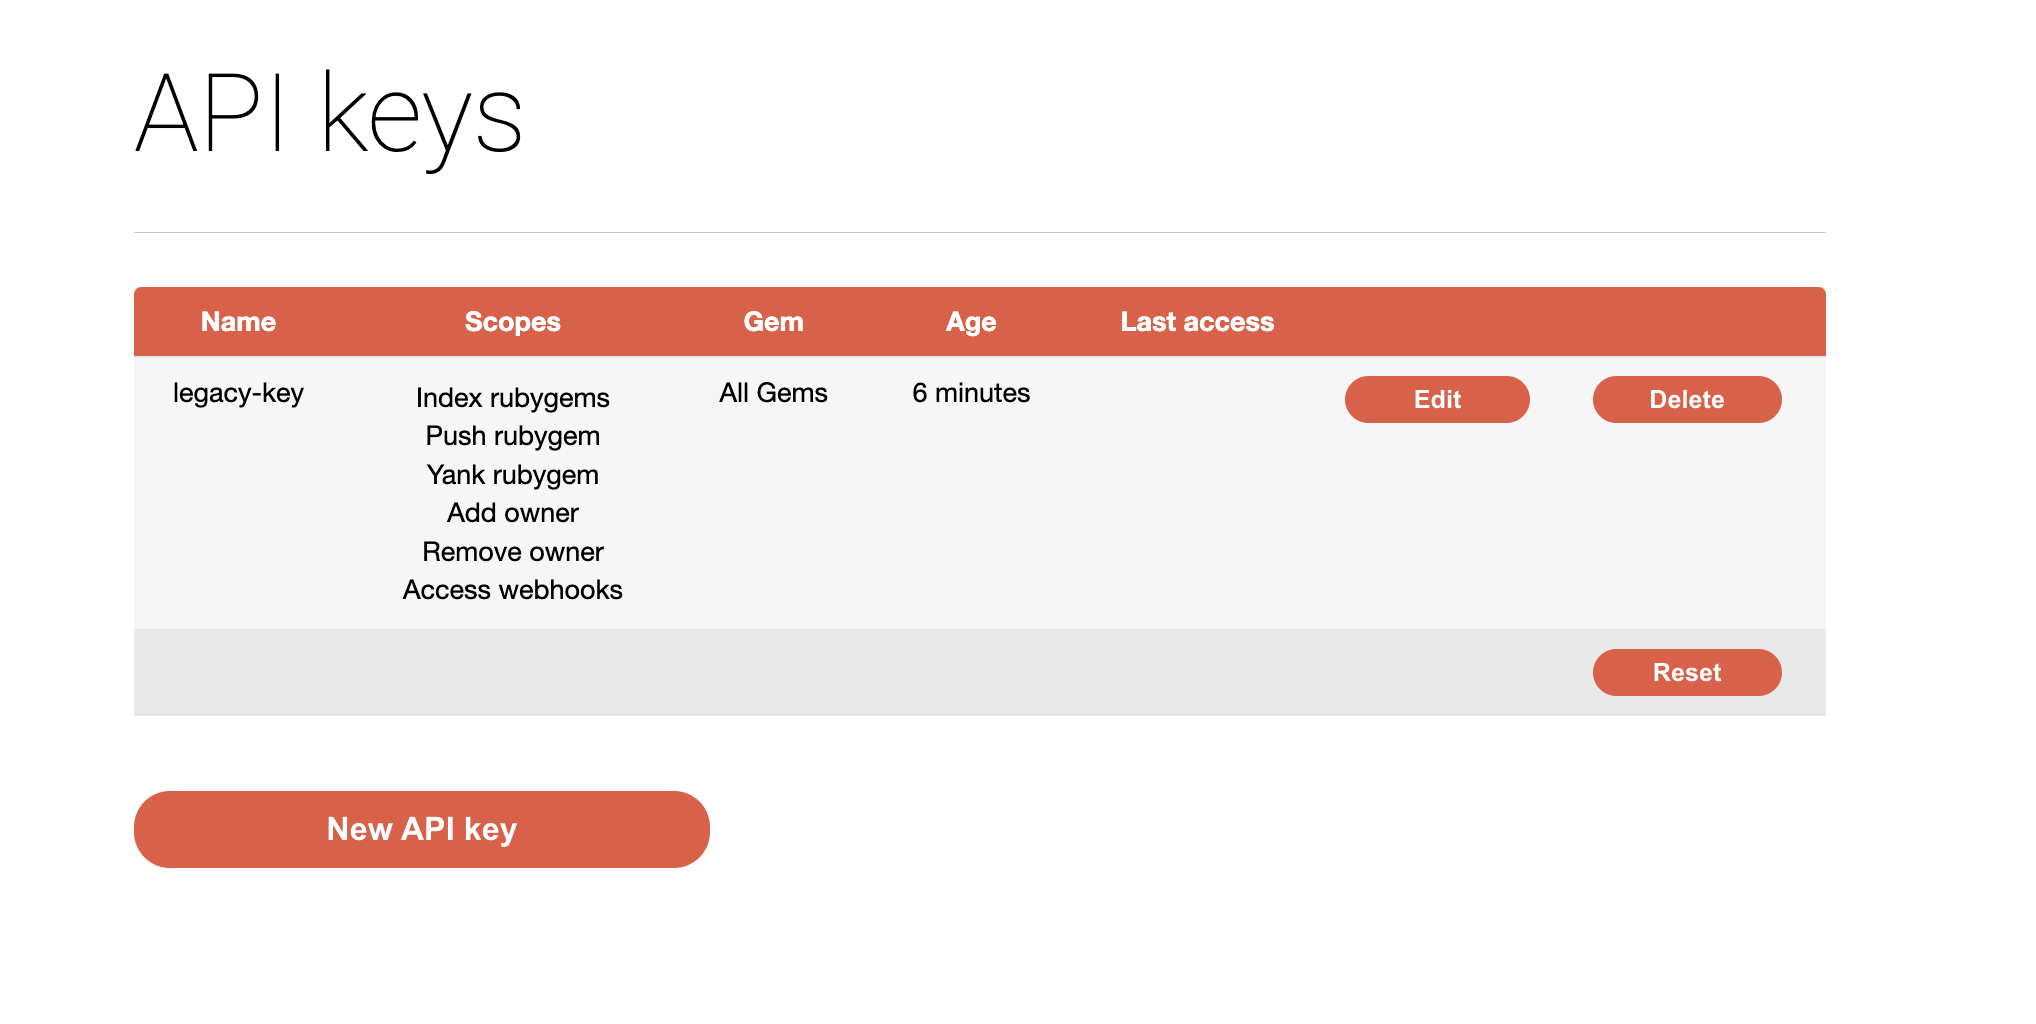
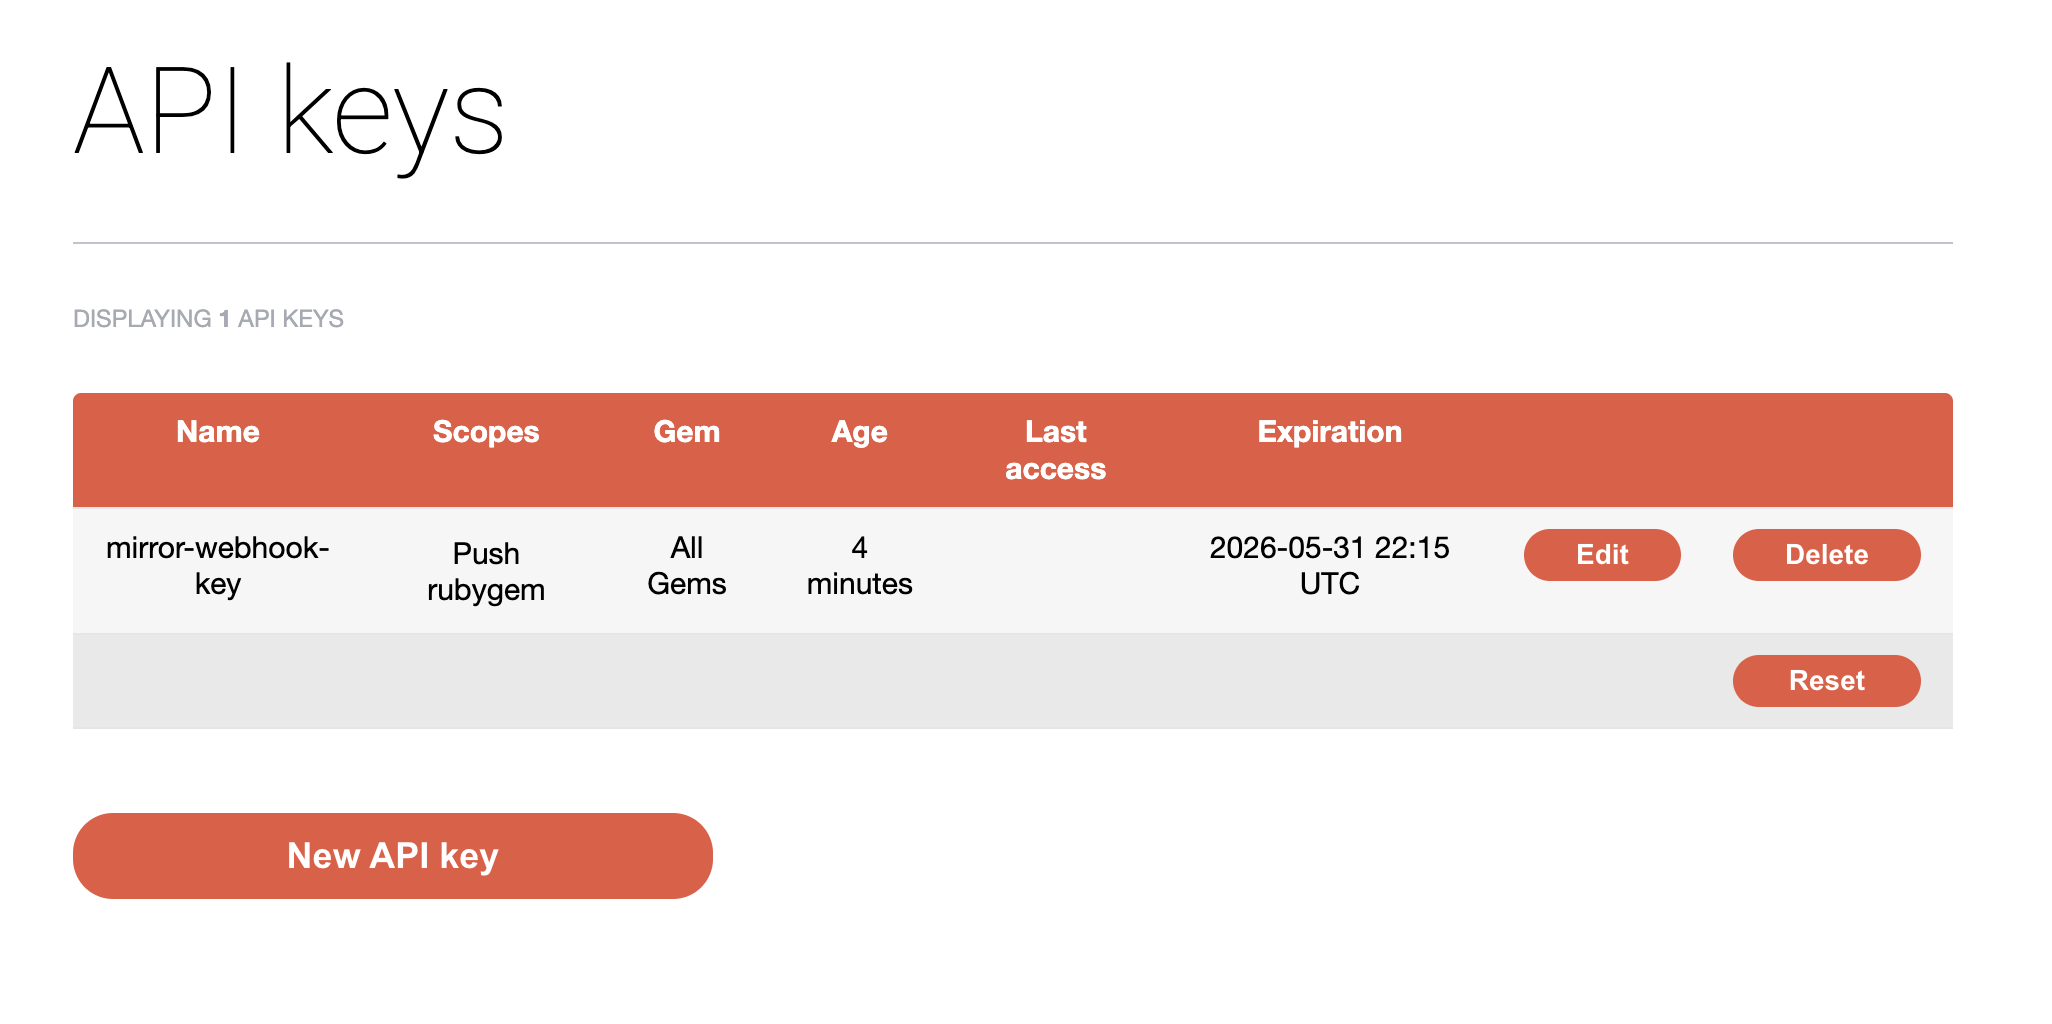
Merge pull request #463 from Shopify/update-docs-expiration-key
Add documentation for API key expiration feature

Pull request: Add documentation for API key expiration feature
## What

Adds documentation for the API key expiration feature to the [API key scopes guide](https://guides.rubygems.org/api-key-scopes/).

Changes:
- New "Set an expiration date" section explaining the feature, use cases, and constraints
- Updated "Create a new API key" section to mention the expiration option
- Updated index table description to mention the new "Expiration" column
- Updated screenshots to reflect the new UI (expiration field in form, expiration column in index)

## Why

[PR](https://github.com/rubygems/rubygems.org/pull/4681) added the ability to create API keys with an optional expiration date. The guides need to be updated to document this feature for users.

diff --git a/api-key-scopes.md b/api-key-scopes.md
@@ -22,7 +22,7 @@ Click on **New API Key** to create a new API key for your account.
 
 ![Settings API key](/images/api-keys-index.png){:class="t-img"}
 
-Enter a name to help you identify the environment the API key may be used in (eg: ci-push-key, mirror-webhook-key, etc.). Check all the scopes you may want to enable and click on create.
+Enter a name to help you identify the environment the API key may be used in (eg: ci-push-key, mirror-webhook-key, etc.). Check all the scopes you may want to enable. You can also optionally set an [expiration date](#set-an-expiration-date) for the key. Click create when done.
 
 **Note:** *Show dashboard* is an exclusive scope, and it can't be enabled in combination with any other scope.
 
@@ -32,7 +32,7 @@ On the following page, you should see the new API key.
 
 ![API key created](/images/api-key-created.png){:class="t-img"}
 
-The *Age* column shows how old is the key. The *Last access* column shows the last time (in UTC) the key was used in a successful authentication. You can use the **Edit** button to update the scopes of the key. You can use the **Reset** button in the last row to delete *all* the API keys associated with your account.
+The *Age* column shows how old the key is, the *Expiration* column shows when the key will expire (if an expiration was set), and the *Last access* column shows the last time (in UTC) the key was used in a successful authentication. You can use the **Edit** button to update the scopes of the key. You can use the **Reset** button in the last row to delete *all* the API keys associated with your account.
 
 Usage with gem CLI
 ------------------
@@ -99,6 +99,19 @@ The operations corresponding to these scopes will only be valid on the selected 
 If you are using a key to modify only one of your gems, please consider gem scoping your keys.
 
 **Note:** When your ownership to a gem is removed, API keys scoped to that gem will become invalid and cannot be used.
+
+Set an expiration date
+-----------------------
+
+When creating an API key, we highly recommend you set an **expiration date** using the expiration field on the form. Once the expiration date passes, the key becomes invalid and can no longer be used for authentication.
+
+![New API key with expiration](/images/new-api-key-expiration.png){:class="t-img"}
+
+Setting an expiration is useful for temporary access to make changes, such as pushing a gem, adding or removing ownership, or other one-off operations.
+
+The expiration must be set to at least 5 minutes in the future. If no expiration is set, the key will remain valid indefinitely (until manually deleted or reset).
+
+**Note:** The expiration date cannot be changed after the key is created. If you need a key with a different expiration, create a new one.
 
 Enable MFA on specific API keys
 -----------------------------